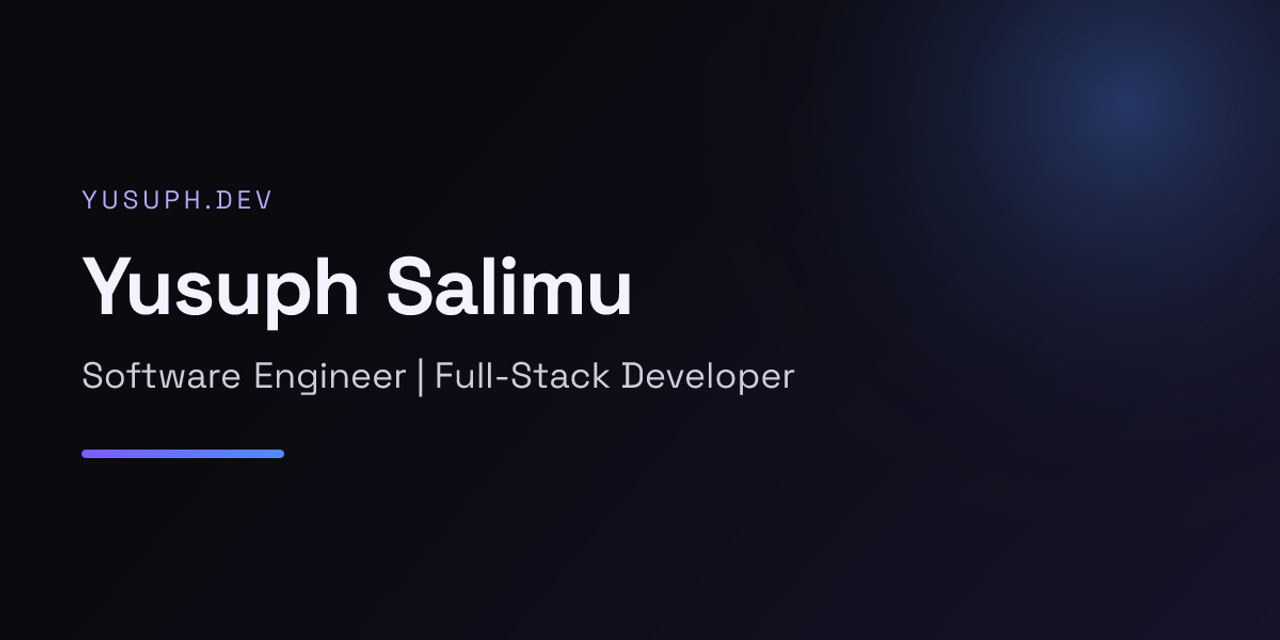
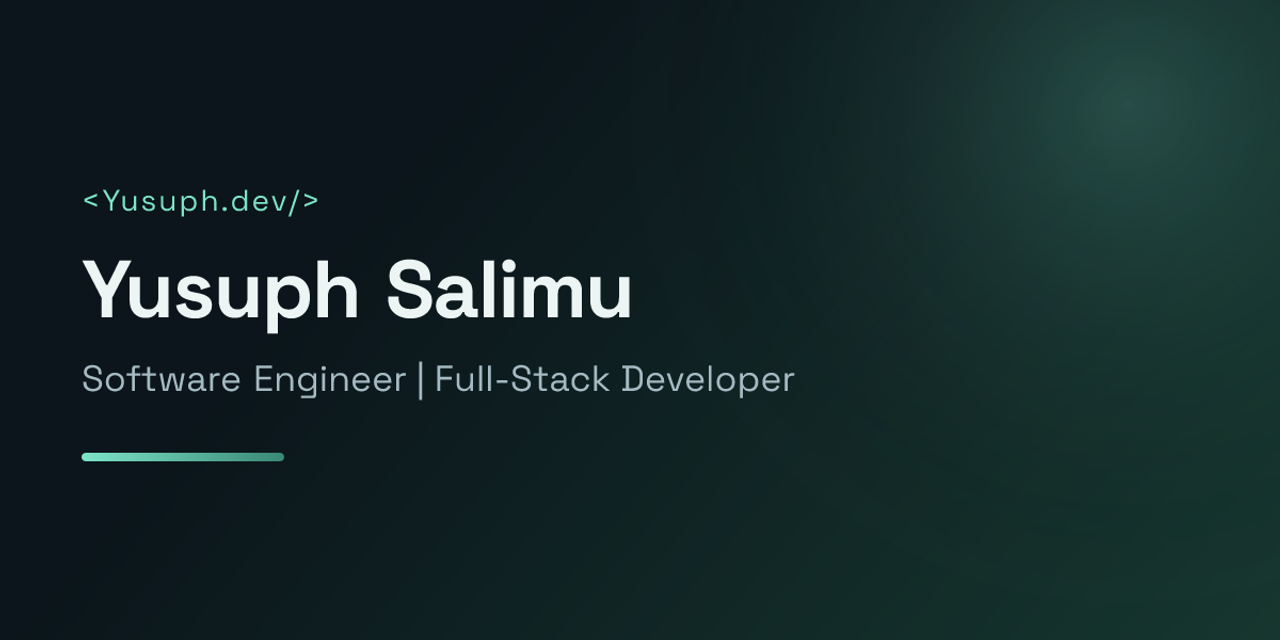
Nov 15, 2026, 9:30 AM

diff --git a/tests/e2e/interactions.spec.ts b/tests/e2e/interactions.spec.ts
@@ -1,0 +1,117 @@
+import { expect, test } from "@playwright/test";
+
+test("all published projects can be filtered on the homepage", async ({ page }) => {
+  await page.goto("/en");
+  const projects = page.locator("#projects");
+  await expect(projects.locator(".project-card")).toHaveCount(7);
+  await projects.getByRole("button", { name: "Data & ML 1", exact: true }).click();
+  await expect(projects.locator(".project-card h2")).toHaveText(["Tanzania Stock Price Prediction"]);
+  await projects.getByRole("button", { name: "SaaS 1", exact: true }).click();
+  await expect(projects.locator(".project-card")).toHaveCount(1);
+  await projects.getByRole("button", { name: "All 7", exact: true }).click();
+  await expect(projects.locator(".project-card")).toHaveCount(7);
+  const heights = await projects.locator(".project-card").evaluateAll((cards) => cards.map((card) => card.getBoundingClientRect().height));
+  expect(Math.max(...heights)).toBeLessThan(520);
+});
+
+test("service selector supports pointer and keyboard navigation", async ({ page }) => {
+  await page.goto("/en");
+  const tabs = page.getByRole("tab");
+  await tabs.nth(1).click();
+  await expect(tabs.nth(1)).toHaveAttribute("aria-selected", "true");
+  await expect(page.getByRole("tabpanel")).toContainText("Web platforms with authentication");
+  await page.keyboard.press("End");
+  await expect(tabs.last()).toBeFocused();
+  await expect(page.getByRole("tabpanel")).toContainText("Data cleaning");
+  await page.keyboard.press("Home");
+  await expect(tabs.first()).toHaveAttribute("aria-selected", "true");
+});
+
+for (const scheme of ["light", "dark"] as const) {
+  test(`theme follows ${scheme} preference and preserves manual choice`, async ({ page }) => {
+    await page.emulateMedia({ colorScheme: scheme });
+    await page.goto("/en");
+    await expect(page.locator("html")).toHaveAttribute("data-theme", scheme);
+    const other = scheme === "light" ? "dark" : "light";
+    await page.getByRole("button", { name: `Switch to ${other} mode` }).click();
+    await expect(page.locator("html")).toHaveAttribute("data-theme", other);
+    await page.reload();
+    await expect(page.locator("html")).toHaveAttribute("data-theme", other);
+    await page.emulateMedia({ colorScheme: scheme });
+    await expect(page.locator("html")).toHaveAttribute("data-theme", other);
+  });
+}
+
+test("theme follows system changes and still toggles when storage is blocked", async ({ page }) => {
+  await page.addInitScript(() => {
+    Storage.prototype.getItem = () => { throw new Error("Storage blocked"); };
+    Storage.prototype.setItem = () => { throw new Error("Storage blocked"); };
+  });
+  await page.emulateMedia({ colorScheme: "light" });
+  await page.goto("/en");
+  await expect(page.locator("html")).toHaveAttribute("data-theme", "light");
+  await page.emulateMedia({ colorScheme: "dark" });
+  await expect(page.locator("html")).toHaveAttribute("data-theme", "dark");
+  await page.getByRole("button", { name: "Switch to light mode" }).click();
+  await expect(page.locator("html")).toHaveAttribute("data-theme", "light");
+});
+
+test("hero animates about its center and can be paused", async ({ page }) => {
+  await page.goto("/en");
+  const mark = page.locator(".hero-wordmark");
+  await expect(mark).toHaveCSS("animation-name", "identity-turn");
+  const firstTransform = await mark.evaluate((element) => getComputedStyle(element).transform);
+  await expect.poll(() => mark.evaluate((element) => getComputedStyle(element).transform)).not.toBe(firstTransform);
+  await page.getByRole("button", { name: "Pause hero animation" }).click();
+  await expect(mark).toHaveCSS("animation-play-state", "paused");
+  await page.getByRole("button", { name: "Resume hero animation" }).click();
+  await expect(mark).toHaveCSS("animation-play-state", "running");
+});
+
+test("reduced motion disables automatic hero movement", async ({ page }) => {
+  await page.emulateMedia({ reducedMotion: "reduce" });
+  await page.goto("/en");
+  await expect(page.locator(".hero-wordmark")).toHaveCSS("animation-name", "none");
+  await expect(page.locator(".hero-gem")).toHaveCSS("animation-name", "none");
+  await expect(page.locator(".scene-control")).toBeDisabled();
+});
+
+test("command palette returns from a case study to a home section", async ({ page }) => {
+  await page.goto("/en/projects/hardware-stores");
+  await page.keyboard.press("Control+k");
+  await page.getByRole("dialog").getByRole("link", { name: "About", exact: true }).click();
+  await expect(page).toHaveURL(/\/en#about$/);
+  await expect(page.locator("#about")).toBeInViewport();
+});
+
+test("Y favicons are discoverable and served in raster and vector formats", async ({ page, request }) => {
+  await page.goto("/en");
+  await expect(page.locator('link[rel="icon"][href="/favicon-96.png"]')).toHaveAttribute("sizes", "96x96");
+  for (const path of ["/favicon.ico", "/favicon-96.png", "/apple-touch-icon.png", "/icon.svg"]) {
+    const response = await request.get(path);
+    expect(response.status()).toBe(200);
+    expect((await response.body()).length).toBeGreaterThan(100);
+  }
+});
+
+for (const scheme of ["light", "dark"] as const) {
+  test(`${scheme} text and form surfaces retain readable contrast`, async ({ page }) => {
+    await page.emulateMedia({ colorScheme: scheme });
+    await page.goto("/en");
+    const ratios = await page.evaluate(() => {
+      const luminance = (color: string) => {
+        const channels = color.match(/[\d.]+/g)!.slice(0, 3).map(Number).map((value) => {
+          const channel = value / 255;
+          return channel <= .04045 ? channel / 12.92 : ((channel + .055) / 1.055) ** 2.4;
+        });
+        return channels[0] * .2126 + channels[1] * .7152 + channels[2] * .0722;
+      };
+      return ["body", ".contact-form input", ".button--primary"].map((selector) => {
+        const style = getComputedStyle(document.querySelector(selector)!);
+        const fg = luminance(style.color), bg = luminance(style.backgroundColor);
+        return (Math.max(fg, bg) + .05) / (Math.min(fg, bg) + .05);
+      });
+    });
+    for (const ratio of ratios) expect(ratio).toBeGreaterThanOrEqual(4.5);
+  });
+}

diff --git a/CHANGELOG.md b/CHANGELOG.md
@@ -1,5 +1,16 @@
 # Changelog
 
+## Portfolio refresh — Motion, themes, and compact work grid (2026-11-15)
+
+- Studied https://eleo.netlify.app/ in Chromium and adapted its floating hero identity, interactive service selection, and project presentation into an original design.
+- Added a gently rotating `<Yusuph.dev/>` hero with pointer tilt, pause/resume, and reduced-motion support.
+- Replaced the split color systems with a shared navy, mint, and warm-white palette. Themes initialize before paint, follow system preference until overridden, persist across visits, and remain usable when storage is blocked.
+- Show all seven published projects on the homepage with category filters, compact cards, browser-framed screenshot previews, and localized actions. The unpublished competition draft remains private.
+- Reduced portrait size and section spacing; added sticky navigation, reading progress, service tabs with keyboard support, and a back-to-top link.
+- Created a matching vector Y identity, multi-resolution favicon, 96px search icon, and Apple touch icon. Refreshed Open Graph colors and social preview.
+- Fixed command-palette section navigation from project pages and added missing accessible section-heading IDs.
+- Added browser coverage for themes, blocked storage, contrast, hero motion, service navigation, project filtering, and favicon routes.
+
 ## Phase 4 — Completion audit (2026-11-14)
 
 - Confirmed the homepage order: Zantan Company, Zantan Mining, Ayaven Kids, then Hardware Stores.
